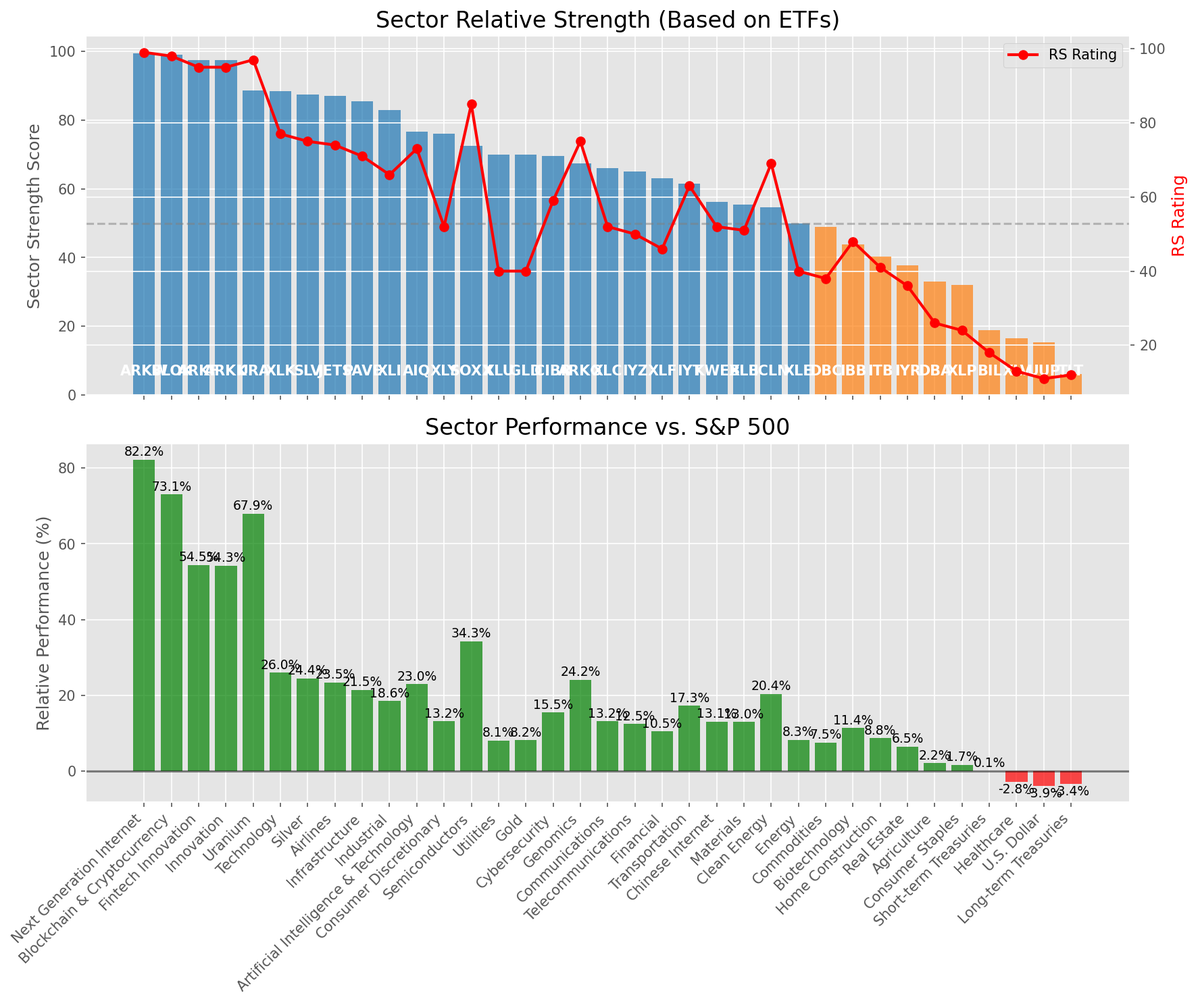
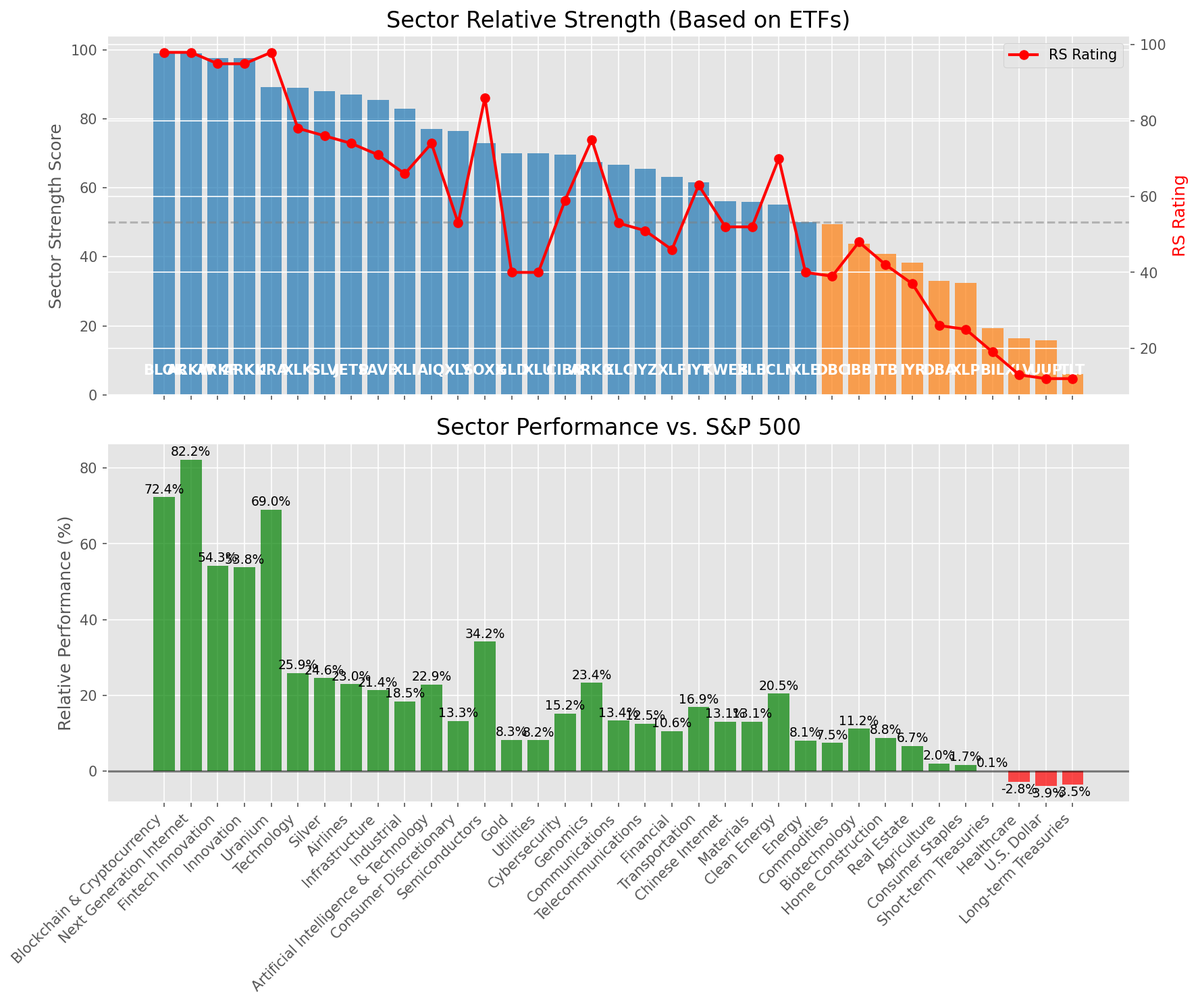
Add market report for 2025-07-11

diff --git a/oneil_relative_strength_report_2025-07-11.md b/oneil_relative_strength_report_2025-07-11.md
@@ -13,7 +13,7 @@
 | **Historical Mean** | 9.45 |
 | **Standard Deviation** | 0.52 |
 | **Z-Score (StdDev from Mean)** | 1.62 |
-| **Total Market Cap** | $307.43 trillion |
+| **Total Market Cap** | $307.35 trillion |
 | **GDP** | $29.96 trillion |
 
 ## **Market Insights**
@@ -49,41 +49,41 @@ Based on William O'Neil's Relative Strength Methodology
 
 | ETF | Strength | RS Rating | Performance | Above Key MAs | Trend | Sector |
 |-----|----------|-----------|-------------|--------------|-------|--------|
-| [ARKW](https://www.tradingview.com/chart/?symbol=ARKW) | 99.5 | 99.0 | 82.19% | 10d ✓, 50d ✓, 200d ✓ | ↗ | Next Generation Internet |
-| [BLOK](https://www.tradingview.com/chart/?symbol=BLOK) | 99.0 | 98.0 | 73.06% | 10d ✓, 50d ✓, 200d ✓ | ↗ | Blockchain & Cryptocurrency |
-| [ARKF](https://www.tradingview.com/chart/?symbol=ARKF) | 97.5 | 95.0 | 54.46% | 10d ✓, 50d ✓, 200d ✓ | ↗ | Fintech Innovation |
-| [ARKK](https://www.tradingview.com/chart/?symbol=ARKK) | 97.5 | 95.0 | 54.28% | 10d ✓, 50d ✓, 200d ✓ | ↗ | Innovation |
-| [URA](https://www.tradingview.com/chart/?symbol=URA) | 88.6 | 97.0 | 67.92% | 10d ✗, 50d ✓, 200d ✓ | ↗ | Uranium |
-| [XLK](https://www.tradingview.com/chart/?symbol=XLK) | 88.5 | 77.0 | 26.01% | 10d ✓, 50d ✓, 200d ✓ | ↗ | Technology |
-| [SLV](https://www.tradingview.com/chart/?symbol=SLV) | 87.5 | 75.0 | 24.45% | 10d ✓, 50d ✓, 200d ✓ | ↗ | Silver |
-| [JETS](https://www.tradingview.com/chart/?symbol=JETS) | 87.0 | 74.0 | 23.45% | 10d ✓, 50d ✓, 200d ✓ | ↗ | Airlines |
-| [PAVE](https://www.tradingview.com/chart/?symbol=PAVE) | 85.5 | 71.0 | 21.46% | 10d ✓, 50d ✓, 200d ✓ | ↗ | Infrastructure |
-| [XLI](https://www.tradingview.com/chart/?symbol=XLI) | 83.0 | 66.0 | 18.55% | 10d ✓, 50d ✓, 200d ✓ | ↗ | Industrial |
-| [AIQ](https://www.tradingview.com/chart/?symbol=AIQ) | 76.6 | 73.0 | 23.00% | 10d ✗, 50d ✓, 200d ✓ | ↗ | Artificial Intelligence & Technology |
-| [XLY](https://www.tradingview.com/chart/?symbol=XLY) | 76.0 | 52.0 | 13.16% | 10d ✓, 50d ✓, 200d ✓ | ↗ | Consumer Discretionary |
-| [SOXX](https://www.tradingview.com/chart/?symbol=SOXX) | 72.5 | 85.0 | 34.30% | 10d ✓, 50d ✓, 200d ✓ | ↘ | Semiconductors |
-| [XLU](https://www.tradingview.com/chart/?symbol=XLU) | 70.0 | 40.0 | 8.11% | 10d ✓, 50d ✓, 200d ✓ | ↗ | Utilities |
-| [GLD](https://www.tradingview.com/chart/?symbol=GLD) | 70.0 | 40.0 | 8.19% | 10d ✓, 50d ✓, 200d ✓ | ↗ | Gold |
-| [CIBR](https://www.tradingview.com/chart/?symbol=CIBR) | 69.6 | 59.0 | 15.53% | 10d ✗, 50d ✓, 200d ✓ | ↗ | Cybersecurity |
-| [ARKG](https://www.tradingview.com/chart/?symbol=ARKG) | 67.5 | 75.0 | 24.17% | 10d ✓, 50d ✓, 200d ✓ | ↘ | Genomics |
-| [XLC](https://www.tradingview.com/chart/?symbol=XLC) | 66.1 | 52.0 | 13.20% | 10d ✗, 50d ✓, 200d ✓ | ↗ | Communications |
-| [IYZ](https://www.tradingview.com/chart/?symbol=IYZ) | 65.1 | 50.0 | 12.46% | 10d ✗, 50d ✓, 200d ✓ | ↗ | Telecommunications |
-| [XLF](https://www.tradingview.com/chart/?symbol=XLF) | 63.1 | 46.0 | 10.52% | 10d ✗, 50d ✓, 200d ✓ | ↗ | Financial |
-| [IYT](https://www.tradingview.com/chart/?symbol=IYT) | 61.5 | 63.0 | 17.26% | 10d ✓, 50d ✓, 200d ✓ | ↘ | Transportation |
+| [BLOK](https://www.tradingview.com/chart/?symbol=BLOK) | 99.0 | 98.0 | 72.36% | 10d ✓, 50d ✓, 200d ✓ | ↗ | Blockchain & Cryptocurrency |
+| [ARKW](https://www.tradingview.com/chart/?symbol=ARKW) | 99.0 | 98.0 | 82.19% | 10d ✓, 50d ✓, 200d ✓ | ↗ | Next Generation Internet |
+| [ARKF](https://www.tradingview.com/chart/?symbol=ARKF) | 97.5 | 95.0 | 54.28% | 10d ✓, 50d ✓, 200d ✓ | ↗ | Fintech Innovation |
+| [ARKK](https://www.tradingview.com/chart/?symbol=ARKK) | 97.5 | 95.0 | 53.76% | 10d ✓, 50d ✓, 200d ✓ | ↗ | Innovation |
+| [URA](https://www.tradingview.com/chart/?symbol=URA) | 89.1 | 98.0 | 68.99% | 10d ✗, 50d ✓, 200d ✓ | ↗ | Uranium |
+| [XLK](https://www.tradingview.com/chart/?symbol=XLK) | 89.0 | 78.0 | 25.89% | 10d ✓, 50d ✓, 200d ✓ | ↗ | Technology |
+| [SLV](https://www.tradingview.com/chart/?symbol=SLV) | 88.0 | 76.0 | 24.63% | 10d ✓, 50d ✓, 200d ✓ | ↗ | Silver |
+| [JETS](https://www.tradingview.com/chart/?symbol=JETS) | 87.0 | 74.0 | 22.96% | 10d ✓, 50d ✓, 200d ✓ | ↗ | Airlines |
+| [PAVE](https://www.tradingview.com/chart/?symbol=PAVE) | 85.5 | 71.0 | 21.39% | 10d ✓, 50d ✓, 200d ✓ | ↗ | Infrastructure |
+| [XLI](https://www.tradingview.com/chart/?symbol=XLI) | 83.0 | 66.0 | 18.45% | 10d ✓, 50d ✓, 200d ✓ | ↗ | Industrial |
+| [AIQ](https://www.tradingview.com/chart/?symbol=AIQ) | 77.1 | 74.0 | 22.92% | 10d ✗, 50d ✓, 200d ✓ | ↗ | Artificial Intelligence & Technology |
+| [XLY](https://www.tradingview.com/chart/?symbol=XLY) | 76.5 | 53.0 | 13.31% | 10d ✓, 50d ✓, 200d ✓ | ↗ | Consumer Discretionary |
+| [SOXX](https://www.tradingview.com/chart/?symbol=SOXX) | 73.0 | 86.0 | 34.23% | 10d ✓, 50d ✓, 200d ✓ | ↘ | Semiconductors |
+| [GLD](https://www.tradingview.com/chart/?symbol=GLD) | 70.0 | 40.0 | 8.30% | 10d ✓, 50d ✓, 200d ✓ | ↗ | Gold |
+| [XLU](https://www.tradingview.com/chart/?symbol=XLU) | 70.0 | 40.0 | 8.19% | 10d ✓, 50d ✓, 200d ✓ | ↗ | Utilities |
+| [CIBR](https://www.tradingview.com/chart/?symbol=CIBR) | 69.6 | 59.0 | 15.19% | 10d ✗, 50d ✓, 200d ✓ | ↗ | Cybersecurity |
+| [ARKG](https://www.tradingview.com/chart/?symbol=ARKG) | 67.5 | 75.0 | 23.38% | 10d ✓, 50d ✓, 200d ✓ | ↘ | Genomics |
+| [XLC](https://www.tradingview.com/chart/?symbol=XLC) | 66.6 | 53.0 | 13.37% | 10d ✗, 50d ✓, 200d ✓ | ↗ | Communications |
+| [IYZ](https://www.tradingview.com/chart/?symbol=IYZ) | 65.6 | 51.0 | 12.53% | 10d ✗, 50d ✓, 200d ✓ | ↗ | Telecommunications |
+| [XLF](https://www.tradingview.com/chart/?symbol=XLF) | 63.1 | 46.0 | 10.61% | 10d ✗, 50d ✓, 200d ✓ | ↗ | Financial |
+| [IYT](https://www.tradingview.com/chart/?symbol=IYT) | 61.5 | 63.0 | 16.88% | 10d ✓, 50d ✓, 200d ✓ | ↘ | Transportation |
 | [KWEB](https://www.tradingview.com/chart/?symbol=KWEB) | 56.2 | 52.0 | 13.08% | 10d ✗, 50d ✗, 200d ✓ | ↗ | Chinese Internet |
-| [XLB](https://www.tradingview.com/chart/?symbol=XLB) | 55.5 | 51.0 | 13.03% | 10d ✓, 50d ✓, 200d ✓ | ↘ | Materials |
-| [ICLN](https://www.tradingview.com/chart/?symbol=ICLN) | 54.6 | 69.0 | 20.42% | 10d ✗, 50d ✓, 200d ✓ | ↘ | Clean Energy |
-| [XLE](https://www.tradingview.com/chart/?symbol=XLE) | 50.0 | 40.0 | 8.26% | 10d ✓, 50d ✓, 200d ✓ | ↘ | Energy |
-| [DBC](https://www.tradingview.com/chart/?symbol=DBC) | 49.0 | 38.0 | 7.53% | 10d ✓, 50d ✓, 200d ✓ | ↘ | Commodities |
-| [IBB](https://www.tradingview.com/chart/?symbol=IBB) | 43.8 | 48.0 | 11.37% | 10d ✓, 50d ✓, 200d ✗ | ↘ | Biotechnology |
-| [ITB](https://www.tradingview.com/chart/?symbol=ITB) | 40.3 | 41.0 | 8.76% | 10d ✓, 50d ✓, 200d ✗ | ↘ | Home Construction |
-| [IYR](https://www.tradingview.com/chart/?symbol=IYR) | 37.8 | 36.0 | 6.54% | 10d ✓, 50d ✓, 200d ✗ | ↘ | Real Estate |
-| [DBA](https://www.tradingview.com/chart/?symbol=DBA) | 33.0 | 26.0 | 2.16% | 10d ✗, 50d ✗, 200d ✗ | ↗ | Agriculture |
-| [XLP](https://www.tradingview.com/chart/?symbol=XLP) | 32.0 | 24.0 | 1.67% | 10d ✗, 50d ✗, 200d ✗ | ↗ | Consumer Staples |
-| [BIL](https://www.tradingview.com/chart/?symbol=BIL) | 18.9 | 18.0 | 0.06% | 10d ✓, 50d ✗, 200d ✗ | ↘ | Short-term Treasuries |
-| [XLV](https://www.tradingview.com/chart/?symbol=XLV) | 16.4 | 13.0 | -2.83% | 10d ✗, 50d ✓, 200d ✗ | ↘ | Healthcare |
-| [UUP](https://www.tradingview.com/chart/?symbol=UUP) | 15.4 | 11.0 | -3.88% | 10d ✓, 50d ✗, 200d ✗ | ↘ | U.S. Dollar |
-| [TLT](https://www.tradingview.com/chart/?symbol=TLT) | 6.0 | 12.0 | -3.36% | 10d ✗, 50d ✗, 200d ✗ | ↘ | Long-term Treasuries |
+| [XLB](https://www.tradingview.com/chart/?symbol=XLB) | 56.0 | 52.0 | 13.12% | 10d ✓, 50d ✓, 200d ✓ | ↘ | Materials |
+| [ICLN](https://www.tradingview.com/chart/?symbol=ICLN) | 55.1 | 70.0 | 20.47% | 10d ✗, 50d ✓, 200d ✓ | ↘ | Clean Energy |
+| [XLE](https://www.tradingview.com/chart/?symbol=XLE) | 50.0 | 40.0 | 8.14% | 10d ✓, 50d ✓, 200d ✓ | ↘ | Energy |
+| [DBC](https://www.tradingview.com/chart/?symbol=DBC) | 49.5 | 39.0 | 7.47% | 10d ✓, 50d ✓, 200d ✓ | ↘ | Commodities |
+| [IBB](https://www.tradingview.com/chart/?symbol=IBB) | 43.8 | 48.0 | 11.19% | 10d ✓, 50d ✓, 200d ✗ | ↘ | Biotechnology |
+| [ITB](https://www.tradingview.com/chart/?symbol=ITB) | 40.8 | 42.0 | 8.82% | 10d ✓, 50d ✓, 200d ✗ | ↘ | Home Construction |
+| [IYR](https://www.tradingview.com/chart/?symbol=IYR) | 38.3 | 37.0 | 6.71% | 10d ✓, 50d ✓, 200d ✗ | ↘ | Real Estate |
+| [DBA](https://www.tradingview.com/chart/?symbol=DBA) | 33.0 | 26.0 | 2.02% | 10d ✗, 50d ✗, 200d ✗ | ↗ | Agriculture |
+| [XLP](https://www.tradingview.com/chart/?symbol=XLP) | 32.5 | 25.0 | 1.72% | 10d ✗, 50d ✗, 200d ✗ | ↗ | Consumer Staples |
+| [BIL](https://www.tradingview.com/chart/?symbol=BIL) | 19.4 | 19.0 | 0.05% | 10d ✓, 50d ✗, 200d ✗ | ↘ | Short-term Treasuries |
+| [XLV](https://www.tradingview.com/chart/?symbol=XLV) | 16.4 | 13.0 | -2.81% | 10d ✗, 50d ✓, 200d ✗ | ↘ | Healthcare |
+| [UUP](https://www.tradingview.com/chart/?symbol=UUP) | 15.9 | 12.0 | -3.87% | 10d ✓, 50d ✗, 200d ✗ | ↘ | U.S. Dollar |
+| [TLT](https://www.tradingview.com/chart/?symbol=TLT) | 6.0 | 12.0 | -3.47% | 10d ✗, 50d ✗, 200d ✗ | ↘ | Long-term Treasuries |
 
 ### **Sector ETF Performance Interpretation**
 
@@ -98,173 +98,170 @@ This table shows the relative strength metrics for different market sectors base
 
 ### **Current Sector Leadership**
 
-The current market leadership is coming from the following sectors: **Next Generation Internet, Blockchain & Cryptocurrency, Fintech Innovation**.
+The current market leadership is coming from the following sectors: **Blockchain & Cryptocurrency, Next Generation Internet, Fintech Innovation**.
 
-The **Next Generation Internet** sector (represented by **ARKW**) is showing particularly strong relative strength with an RS rating of 99.0 and performance of 82.19% vs. the S&P 500. This sector is trading above its 10-day, 50-day, 200-day moving average(s). Investors should consider focusing on high RS stocks within these leading sectors for potential outperformance.
+The **Blockchain & Cryptocurrency** sector (represented by **BLOK**) is showing particularly strong relative strength with an RS rating of 98.0 and performance of 72.36% vs. the S&P 500. This sector is trading above its 10-day, 50-day, 200-day moving average(s). Investors should consider focusing on high RS stocks within these leading sectors for potential outperformance.
 
 ---
 
 ## **Buy Recommendations**
 
-The following 45 stocks show exceptional relative strength:
+The following 44 stocks show exceptional relative strength:
 
 | RS Rating | Buy Score | Current Price | Chart | Name | Ticker |
 |-----------|-----------|---------------|-------|------|--------|
+| 100 | 100 | $202.09 | [Chart](https://www.tradingview.com/chart/?symbol=LEU) | Centrus Energy Corp. | LEU |
+| 100 | 100 | $100.17 | [Chart](https://www.tradingview.com/chart/?symbol=HOOD) | Robinhood Markets, Inc. Class A Common Stock | HOOD |
 | 100 | 100 | $149.22 | [Chart](https://www.tradingview.com/chart/?symbol=LMB) | Limbach Holdings, Inc Common Stock | LMB |
-| 100 | 100 | $200.69 | [Chart](https://www.tradingview.com/chart/?symbol=LEU) | Centrus Energy Corp. | LEU |
-| 100 | 100 | $100.86 | [Chart](https://www.tradingview.com/chart/?symbol=HOOD) | Robinhood Markets, Inc. Class A Common Stock | HOOD |
-| 99 | 100 | $149.31 | [Chart](https://www.tradingview.com/chart/?symbol=FUTU) | Futu Holdings Limited American Depositary Shares | FUTU |
-| 99 | 100 | $43.92 | [Chart](https://www.tradingview.com/chart/?symbol=FARO) | Faro Technologies Inc | FARO |
-| 99 | 100 | $106.78 | [Chart](https://www.tradingview.com/chart/?symbol=RBLX) | Roblox Corporation | RBLX |
-| 99 | 100 | $45.42 | [Chart](https://www.tradingview.com/chart/?symbol=MP) | MP Materials Corp. | MP |
-| 98 | 100 | $104.86 | [Chart](https://www.tradingview.com/chart/?symbol=VRNA) | Verona Pharma plc | VRNA |
-| 97 | 100 | $51.95 | [Chart](https://www.tradingview.com/chart/?symbol=KTOS) | Kratos Defense & Security Solutions, Inc. | KTOS |
-| 97 | 100 | $540.15 | [Chart](https://www.tradingview.com/chart/?symbol=GEV) | GE Vernova Inc. | GEV |
-| 96 | 100 | $22.21 | [Chart](https://www.tradingview.com/chart/?symbol=MAG) | MAG Silver Corp. | MAG |
-| 96 | 100 | $36.00 | [Chart](https://www.tradingview.com/chart/?symbol=ATRO) | Astronics Corp | ATRO |
-| 96 | 100 | $348.10 | [Chart](https://www.tradingview.com/chart/?symbol=CVNA) | Carvana Co. | CVNA |
-| 95 | 100 | $143.60 | [Chart](https://www.tradingview.com/chart/?symbol=PLTR) | Palantir Technologies Inc. Class A Common Stock | PLTR |
-| 95 | 100 | $51.48 | [Chart](https://www.tradingview.com/chart/?symbol=ARKF) | ARK Fintech Innovation ETF | ARKF |
-| 95 | 100 | $35.25 | [Chart](https://www.tradingview.com/chart/?symbol=ATAT) | Atour Lifestyle Holdings Limited American Depositary Shares | ATAT |
-| 94 | 100 | $212.82 | [Chart](https://www.tradingview.com/chart/?symbol=AGX) | Argan, Inc | AGX |
-| 93 | 100 | $34.59 | [Chart](https://www.tradingview.com/chart/?symbol=APG) | APi Group Corporation | APG |
-| 92 | 100 | $29.38 | [Chart](https://www.tradingview.com/chart/?symbol=NTGR) | NETGEAR, Inc. | NTGR |
-| 92 | 100 | $87.53 | [Chart](https://www.tradingview.com/chart/?symbol=RYTM) | Rhythm Pharmaceuticals, Inc. Common Stock | RYTM |
-| 92 | 100 | $97.98 | [Chart](https://www.tradingview.com/chart/?symbol=TPR) | Tapestry, Inc. Common Stock | TPR |
-| 91 | 100 | $66.86 | [Chart](https://www.tradingview.com/chart/?symbol=IBIT) | iShares Bitcoin Trust ETF | IBIT |
-| 91 | 100 | $52.14 | [Chart](https://www.tradingview.com/chart/?symbol=BTC) | Grayscale Bitcoin Mini Trust ETF | BTC |
+| 99 | 100 | $45.09 | [Chart](https://www.tradingview.com/chart/?symbol=MP) | MP Materials Corp. | MP |
+| 99 | 100 | $148.56 | [Chart](https://www.tradingview.com/chart/?symbol=FUTU) | Futu Holdings Limited American Depositary Shares | FUTU |
+| 99 | 100 | $106.68 | [Chart](https://www.tradingview.com/chart/?symbol=RBLX) | Roblox Corporation | RBLX |
+| 98 | 100 | $104.84 | [Chart](https://www.tradingview.com/chart/?symbol=VRNA) | Verona Pharma plc | VRNA |
+| 97 | 100 | $538.94 | [Chart](https://www.tradingview.com/chart/?symbol=GEV) | GE Vernova Inc. | GEV |
+| 97 | 100 | $51.58 | [Chart](https://www.tradingview.com/chart/?symbol=KTOS) | Kratos Defense & Security Solutions, Inc. | KTOS |
+| 96 | 100 | $22.27 | [Chart](https://www.tradingview.com/chart/?symbol=MAG) | MAG Silver Corp. | MAG |
+| 96 | 100 | $143.50 | [Chart](https://www.tradingview.com/chart/?symbol=PLTR) | Palantir Technologies Inc. Class A Common Stock | PLTR |
+| 96 | 100 | $345.45 | [Chart](https://www.tradingview.com/chart/?symbol=CVNA) | Carvana Co. | CVNA |
+| 96 | 100 | $36.05 | [Chart](https://www.tradingview.com/chart/?symbol=ATRO) | Astronics Corp | ATRO |
+| 95 | 100 | $35.26 | [Chart](https://www.tradingview.com/chart/?symbol=ATAT) | Atour Lifestyle Holdings Limited American Depositary Shares | ATAT |
+| 95 | 100 | $51.42 | [Chart](https://www.tradingview.com/chart/?symbol=ARKF) | ARK Fintech Innovation ETF | ARKF |
+| 94 | 100 | $212.03 | [Chart](https://www.tradingview.com/chart/?symbol=AGX) | Argan, Inc | AGX |
+| 93 | 100 | $34.54 | [Chart](https://www.tradingview.com/chart/?symbol=APG) | APi Group Corporation | APG |
+| 93 | 100 | $98.38 | [Chart](https://www.tradingview.com/chart/?symbol=TPR) | Tapestry, Inc. Common Stock | TPR |
+| 93 | 100 | $87.48 | [Chart](https://www.tradingview.com/chart/?symbol=RYTM) | Rhythm Pharmaceuticals, Inc. Common Stock | RYTM |
+| 93 | 100 | $29.38 | [Chart](https://www.tradingview.com/chart/?symbol=NTGR) | NETGEAR, Inc. | NTGR |
+| 92 | 100 | $66.91 | [Chart](https://www.tradingview.com/chart/?symbol=IBIT) | iShares Bitcoin Trust ETF | IBIT |
+| 92 | 100 | $52.16 | [Chart](https://www.tradingview.com/chart/?symbol=BTC) | Grayscale Bitcoin Mini Trust ETF | BTC |
+| 91 | 100 | $46.48 | [Chart](https://www.tradingview.com/chart/?symbol=BBIO) | BridgeBio Pharma, Inc. Common Stock | BBIO |
 | 90 | 100 | $258.16 | [Chart](https://www.tradingview.com/chart/?symbol=WTS) | Watts Water Technologies, Inc. Class A | WTS |
-| 90 | 100 | $46.30 | [Chart](https://www.tradingview.com/chart/?symbol=BBIO) | BridgeBio Pharma, Inc. Common Stock | BBIO |
-| 89 | 100 | $47.52 | [Chart](https://www.tradingview.com/chart/?symbol=DRS) | Leonardo DRS, Inc. Common Stock | DRS |
-| 89 | 100 | $59.22 | [Chart](https://www.tradingview.com/chart/?symbol=IBKR) | Interactive Brokers Group, Inc. Class A Common Stock | IBKR |
-| 90 | 99 | $34.68 | [Chart](https://www.tradingview.com/chart/?symbol=NNE) | Nano Nuclear Energy Inc. Common Stock | NNE |
+| 89 | 100 | $59.28 | [Chart](https://www.tradingview.com/chart/?symbol=IBKR) | Interactive Brokers Group, Inc. Class A Common Stock | IBKR |
+| 89 | 100 | $47.42 | [Chart](https://www.tradingview.com/chart/?symbol=DRS) | Leonardo DRS, Inc. Common Stock | DRS |
+| 88 | 100 | $27.75 | [Chart](https://www.tradingview.com/chart/?symbol=OR) | OR Royalties Inc. | OR |
+| 90 | 99 | $34.77 | [Chart](https://www.tradingview.com/chart/?symbol=NNE) | Nano Nuclear Energy Inc. Common Stock | NNE |
 | 88 | 99 | $5718.51 | [Chart](https://www.tradingview.com/chart/?symbol=BKNG) | Booking Holdings Inc. Common Stock | BKNG |
-| 86 | 99 | $29.65 | [Chart](https://www.tradingview.com/chart/?symbol=DB) | Deutsche Bank Aktiengesellschaft | DB |
-| 87 | 98 | $256.06 | [Chart](https://www.tradingview.com/chart/?symbol=GE) | GE Aerospace | GE |
-| 86 | 98 | $27.69 | [Chart](https://www.tradingview.com/chart/?symbol=OR) | OR Royalties Inc. | OR |
-| 88 | 97 | $51.42 | [Chart](https://www.tradingview.com/chart/?symbol=INOD) | Innodata Inc. | INOD |
-| 85 | 97 | $64.15 | [Chart](https://www.tradingview.com/chart/?symbol=CAKE) | Cheesecake Factory (The) | CAKE |
-| 84 | 97 | $18.46 | [Chart](https://www.tradingview.com/chart/?symbol=BCS) | Barclays PLC | BCS |
-| 87 | 96 | $50.66 | [Chart](https://www.tradingview.com/chart/?symbol=SIL) | Global X Silver Miners ETF (NEW) | SIL |
-| 85 | 95 | $104.28 | [Chart](https://www.tradingview.com/chart/?symbol=SANM) | Sanmina  Corp | SANM |
-| 83 | 95 | $48.53 | [Chart](https://www.tradingview.com/chart/?symbol=EWI) | iShares MSCI Italy ETF | EWI |
-| 80 | 94 | $28.77 | [Chart](https://www.tradingview.com/chart/?symbol=SRAD) | Sportradar Group AG Class A Ordinary Shares | SRAD |
-| 82 | 93 | $71.73 | [Chart](https://www.tradingview.com/chart/?symbol=ULS) | UL Solutions Inc. | ULS |
-| 80 | 93 | $45.32 | [Chart](https://www.tradingview.com/chart/?symbol=EXEL) | Exelixis Inc | EXEL |
-| 81 | 91 | $108.36 | [Chart](https://www.tradingview.com/chart/?symbol=PSMT) | Pricesmart Inc | PSMT |
-| 81 | 91 | $46.77 | [Chart](https://www.tradingview.com/chart/?symbol=AU) | AngloGold Ashanti plc | AU |
-| 81 | 91 | $46.32 | [Chart](https://www.tradingview.com/chart/?symbol=FHI) | Federated Hermes, Inc. | FHI |
-| 80 | 90 | $60.18 | [Chart](https://www.tradingview.com/chart/?symbol=EPR) | EPR Properties | EPR |
+| 88 | 99 | $255.60 | [Chart](https://www.tradingview.com/chart/?symbol=GE) | GE Aerospace | GE |
+| 86 | 99 | $29.66 | [Chart](https://www.tradingview.com/chart/?symbol=DB) | Deutsche Bank Aktiengesellschaft | DB |
+| 89 | 98 | $50.86 | [Chart](https://www.tradingview.com/chart/?symbol=SIL) | Global X Silver Miners ETF (NEW) | SIL |
+| 86 | 98 | $64.22 | [Chart](https://www.tradingview.com/chart/?symbol=CAKE) | Cheesecake Factory (The) | CAKE |
+| 85 | 98 | $18.48 | [Chart](https://www.tradingview.com/chart/?symbol=BCS) | Barclays PLC | BCS |
+| 88 | 97 | $50.55 | [Chart](https://www.tradingview.com/chart/?symbol=INOD) | Innodata Inc. | INOD |
+| 86 | 96 | $103.81 | [Chart](https://www.tradingview.com/chart/?symbol=SANM) | Sanmina  Corp | SANM |
+| 84 | 96 | $48.53 | [Chart](https://www.tradingview.com/chart/?symbol=EWI) | iShares MSCI Italy ETF | EWI |
+| 81 | 95 | $28.77 | [Chart](https://www.tradingview.com/chart/?symbol=SRAD) | Sportradar Group AG Class A Ordinary Shares | SRAD |
+| 83 | 94 | $71.61 | [Chart](https://www.tradingview.com/chart/?symbol=ULS) | UL Solutions Inc. | ULS |
+| 81 | 94 | $45.38 | [Chart](https://www.tradingview.com/chart/?symbol=EXEL) | Exelixis Inc | EXEL |
+| 83 | 93 | $109.06 | [Chart](https://www.tradingview.com/chart/?symbol=PSMT) | Pricesmart Inc | PSMT |
+| 82 | 92 | $47.03 | [Chart](https://www.tradingview.com/chart/?symbol=AU) | AngloGold Ashanti plc | AU |
+| 81 | 91 | $60.25 | [Chart](https://www.tradingview.com/chart/?symbol=EPR) | EPR Properties | EPR |
+| 80 | 89 | $175.60 | [Chart](https://www.tradingview.com/chart/?symbol=ASND) | Ascendis Pharma A/S American Depositary Shares | ASND |
 
 ---
 
 
 ## **Sell Recommendations**
 
-The following 100 stocks show deteriorating relative strength:
+The following 98 stocks show deteriorating relative strength:
 
 | RS Rating | Sell Score | Current Price | Chart | Name | Ticker |
 |-----------|------------|---------------|-------|------|--------|
-| 1 | 100 | $25.66 | [Chart](https://www.tradingview.com/chart/?symbol=TECS) | Direxion Daily Technology Bear 3x Shares | TECS |
-| 1 | 100 | $12.64 | [Chart](https://www.tradingview.com/chart/?symbol=IART) | Integra LifeSciences Holdings | IART |
-| 1 | 100 | $220.16 | [Chart](https://www.tradingview.com/chart/?symbol=MOH) | Molina Healthcare, Inc. | MOH |
-| 2 | 100 | $25.05 | [Chart](https://www.tradingview.com/chart/?symbol=QID) | ProShares UltraShort QQQ | QID |
+| 1 | 100 | $25.74 | [Chart](https://www.tradingview.com/chart/?symbol=TECS) | Direxion Daily Technology Bear 3x Shares | TECS |
+| 1 | 100 | $12.65 | [Chart](https://www.tradingview.com/chart/?symbol=IART) | Integra LifeSciences Holdings | IART |
+| 1 | 100 | $220.94 | [Chart](https://www.tradingview.com/chart/?symbol=MOH) | Molina Healthcare, Inc. | MOH |
+| 2 | 100 | $25.06 | [Chart](https://www.tradingview.com/chart/?symbol=QID) | ProShares UltraShort QQQ | QID |
+| 2 | 100 | $16.36 | [Chart](https://www.tradingview.com/chart/?symbol=SDS) | ProShares UltraShort S&P500 | SDS |
 | 2 | 100 | $17.95 | [Chart](https://www.tradingview.com/chart/?symbol=BITI) | ProShares Short Bitcoin ETF | BITI |
-| 2 | 100 | $16.37 | [Chart](https://www.tradingview.com/chart/?symbol=SDS) | ProShares UltraShort S&P500 | SDS |
-| 2 | 100 | $40.80 | [Chart](https://www.tradingview.com/chart/?symbol=SDOW) | ProShares UltraPro Short Dow 30 | SDOW |
-| 2 | 100 | $34.42 | [Chart](https://www.tradingview.com/chart/?symbol=SARK) | Investment Managers Series Trust II Tradr 1X Short Innovation Daily ETF | SARK |
-| 2 | 100 | $20.79 | [Chart](https://www.tradingview.com/chart/?symbol=ERY) | Direxion Daily Energy Bear 2X Shares | ERY |
-| 2 | 100 | $23.95 | [Chart](https://www.tradingview.com/chart/?symbol=CRTO) | Criteo S.A. | CRTO |
 | 2 | 100 | $10.25 | [Chart](https://www.tradingview.com/chart/?symbol=SNDX) | Syndax Pharmaceuticals, Inc. | SNDX |
-| 3 | 100 | $229.89 | [Chart](https://www.tradingview.com/chart/?symbol=HUM) | Humana Inc. | HUM |
-| 3 | 100 | $48.83 | [Chart](https://www.tradingview.com/chart/?symbol=ASGN) | ASGN Incorporated | ASGN |
-| 3 | 100 | $17.16 | [Chart](https://www.tradingview.com/chart/?symbol=HP) | Helmerich & Payne, Inc. | HP |
-| 3 | 100 | $81.93 | [Chart](https://www.tradingview.com/chart/?symbol=LNTH) | Lantheus Holdings, Inc | LNTH |
-| 3 | 100 | $36.62 | [Chart](https://www.tradingview.com/chart/?symbol=IBTA) | Ibotta, Inc. | IBTA |
-| 3 | 100 | $42.82 | [Chart](https://www.tradingview.com/chart/?symbol=LINE) | Lineage, Inc. Common Stock | LINE |
-| 4 | 100 | $23.98 | [Chart](https://www.tradingview.com/chart/?symbol=DXD) | ProShares UltraShort Dow 30 | DXD |
+| 2 | 100 | $23.95 | [Chart](https://www.tradingview.com/chart/?symbol=CRTO) | Criteo S.A. | CRTO |
+| 2 | 100 | $20.79 | [Chart](https://www.tradingview.com/chart/?symbol=ERY) | Direxion Daily Energy Bear 2X Shares | ERY |
+| 2 | 100 | $40.76 | [Chart](https://www.tradingview.com/chart/?symbol=SDOW) | ProShares UltraPro Short Dow 30 | SDOW |
+| 2 | 100 | $34.57 | [Chart](https://www.tradingview.com/chart/?symbol=SARK) | Investment Managers Series Trust II Tradr 1X Short Innovation Daily ETF | SARK |
+| 3 | 100 | $17.17 | [Chart](https://www.tradingview.com/chart/?symbol=HP) | Helmerich & Payne, Inc. | HP |
+| 3 | 100 | $10.67 | [Chart](https://www.tradingview.com/chart/?symbol=SONO) | Sonos, Inc. Common Stock | SONO |
+| 3 | 100 | $81.56 | [Chart](https://www.tradingview.com/chart/?symbol=LNTH) | Lantheus Holdings, Inc | LNTH |
+| 3 | 100 | $230.92 | [Chart](https://www.tradingview.com/chart/?symbol=HUM) | Humana Inc. | HUM |
+| 3 | 100 | $49.00 | [Chart](https://www.tradingview.com/chart/?symbol=ASGN) | ASGN Incorporated | ASGN |
+| 3 | 100 | $42.88 | [Chart](https://www.tradingview.com/chart/?symbol=LINE) | Lineage, Inc. Common Stock | LINE |
+| 3 | 100 | $36.93 | [Chart](https://www.tradingview.com/chart/?symbol=IBTA) | Ibotta, Inc. | IBTA |
 | 4 | 100 | $33.51 | [Chart](https://www.tradingview.com/chart/?symbol=PSQ) | ProShares Short QQQ | PSQ |
+| 4 | 100 | $16.55 | [Chart](https://www.tradingview.com/chart/?symbol=COLD) | Americold Realty Trust, Inc. | COLD |
+| 4 | 100 | $23.96 | [Chart](https://www.tradingview.com/chart/?symbol=DXD) | ProShares UltraShort Dow 30 | DXD |
+| 4 | 100 | $12.46 | [Chart](https://www.tradingview.com/chart/?symbol=CCRN) | Cross Country Healthcare Inc | CCRN |
+| 4 | 100 | $10.29 | [Chart](https://www.tradingview.com/chart/?symbol=LBTYK) | Liberty Global Ltd. Class C Common Shares | LBTYK |
 | 4 | 100 | $60.30 | [Chart](https://www.tradingview.com/chart/?symbol=STC) | Stewart Information Services Corporation | STC |
-| 4 | 100 | $16.52 | [Chart](https://www.tradingview.com/chart/?symbol=COLD) | Americold Realty Trust, Inc. | COLD |
-| 4 | 100 | $10.24 | [Chart](https://www.tradingview.com/chart/?symbol=LBTYK) | Liberty Global Ltd. Class C Common Shares | LBTYK |
-| 5 | 100 | $101.91 | [Chart](https://www.tradingview.com/chart/?symbol=DECK) | Deckers Outdoor Corp | DECK |
+| 5 | 100 | $39.35 | [Chart](https://www.tradingview.com/chart/?symbol=SH) | ProShares Short S&P500 | SH |
 | 5 | 100 | $10.82 | [Chart](https://www.tradingview.com/chart/?symbol=SD) | SandRidge Energy, Inc. | SD |
-| 5 | 100 | $133.07 | [Chart](https://www.tradingview.com/chart/?symbol=INSP) | Inspire Medical Systems, Inc. | INSP |
-| 5 | 100 | $39.37 | [Chart](https://www.tradingview.com/chart/?symbol=SH) | ProShares Short S&P500 | SH |
-| 5 | 100 | $12.46 | [Chart](https://www.tradingview.com/chart/?symbol=CCRN) | Cross Country Healthcare Inc | CCRN |
-| 6 | 100 | $15.69 | [Chart](https://www.tradingview.com/chart/?symbol=TNDM) | Tandem Diabetes Care, Inc. | TNDM |
-| 6 | 100 | $61.50 | [Chart](https://www.tradingview.com/chart/?symbol=COLM) | Columbia Sportswear Co | COLM |
-| 6 | 100 | $22.26 | [Chart](https://www.tradingview.com/chart/?symbol=GPK) | Graphic Packaging Holding Company | GPK |
-| 6 | 100 | $69.17 | [Chart](https://www.tradingview.com/chart/?symbol=TNET) | TRINET GROUP, INC. | TNET |
-| 7 | 100 | $19.25 | [Chart](https://www.tradingview.com/chart/?symbol=SPT) | Sprout Social, Inc Class A Common Stock | SPT |
-| 7 | 100 | $25.37 | [Chart](https://www.tradingview.com/chart/?symbol=DOG) | ProShares Short Dow30 | DOG |
-| 7 | 100 | $50.17 | [Chart](https://www.tradingview.com/chart/?symbol=LW) | Lamb Weston Holdings, Inc. | LW |
-| 8 | 100 | $46.36 | [Chart](https://www.tradingview.com/chart/?symbol=KBR) | KBR, Inc. | KBR |
-| 8 | 100 | $38.58 | [Chart](https://www.tradingview.com/chart/?symbol=LKQ) | LKQ Corporation | LKQ |
+| 5 | 100 | $132.44 | [Chart](https://www.tradingview.com/chart/?symbol=INSP) | Inspire Medical Systems, Inc. | INSP |
+| 5 | 100 | $102.00 | [Chart](https://www.tradingview.com/chart/?symbol=DECK) | Deckers Outdoor Corp | DECK |
+| 6 | 100 | $61.40 | [Chart](https://www.tradingview.com/chart/?symbol=COLM) | Columbia Sportswear Co | COLM |
+| 6 | 100 | $19.19 | [Chart](https://www.tradingview.com/chart/?symbol=SPT) | Sprout Social, Inc Class A Common Stock | SPT |
+| 6 | 100 | $68.72 | [Chart](https://www.tradingview.com/chart/?symbol=TNET) | TRINET GROUP, INC. | TNET |
+| 6 | 100 | $15.84 | [Chart](https://www.tradingview.com/chart/?symbol=TNDM) | Tandem Diabetes Care, Inc. | TNDM |
+| 7 | 100 | $50.53 | [Chart](https://www.tradingview.com/chart/?symbol=LW) | Lamb Weston Holdings, Inc. | LW |
+| 7 | 100 | $51.73 | [Chart](https://www.tradingview.com/chart/?symbol=CNMD) | CONMED Corporation | CNMD |
+| 8 | 100 | $25.36 | [Chart](https://www.tradingview.com/chart/?symbol=DOG) | ProShares Short Dow30 | DOG |
+| 8 | 100 | $46.41 | [Chart](https://www.tradingview.com/chart/?symbol=KBR) | KBR, Inc. | KBR |
 | 8 | 100 | $10.23 | [Chart](https://www.tradingview.com/chart/?symbol=LBTYA) | Liberty Global Ltd. Class A Common Shares | LBTYA |
-| 9 | 100 | $17.64 | [Chart](https://www.tradingview.com/chart/?symbol=S) | SentinelOne, Inc. | S |
-| 9 | 100 | $63.70 | [Chart](https://www.tradingview.com/chart/?symbol=ZROZ) | PIMCO 25+ Year Zero Coupon U.S. Treasury Index Exchange-Traded Fund | ZROZ |
-| 9 | 100 | $13.30 | [Chart](https://www.tradingview.com/chart/?symbol=BSM) | Black Stone Minerals, L.P. | BSM |
-| 11 | 100 | $10.35 | [Chart](https://www.tradingview.com/chart/?symbol=NMZ) | Nuveen Municipal High Income Opportunity Fund | NMZ |
-| 13 | 100 | $41.10 | [Chart](https://www.tradingview.com/chart/?symbol=POR) | Portland General Electric Company | POR |
-| 15 | 100 | $27.24 | [Chart](https://www.tradingview.com/chart/?symbol=GTY) | Getty Realty Corp. | GTY |
-| 17 | 100 | $29.15 | [Chart](https://www.tradingview.com/chart/?symbol=SPTS) | SPDR Portfolio Short Term Treasury ETF | SPTS |
-| 11 | 99 | $130.00 | [Chart](https://www.tradingview.com/chart/?symbol=KMB) | Kimberly-Clark Corp. | KMB |
-| 17 | 99 | $182.79 | [Chart](https://www.tradingview.com/chart/?symbol=UHS) | Universal Health Services, Inc. Class B | UHS |
-| 7 | 98 | $17.43 | [Chart](https://www.tradingview.com/chart/?symbol=NOMD) | Nomad Foods Limited | NOMD |
-| 12 | 98 | $85.88 | [Chart](https://www.tradingview.com/chart/?symbol=TLT) | iShares 20+ Year Treasury Bond ETF | TLT |
-| 11 | 97 | $103.19 | [Chart](https://www.tradingview.com/chart/?symbol=DEO) | Diageo plc | DEO |
-| 9 | 96 | $12.57 | [Chart](https://www.tradingview.com/chart/?symbol=PMT) | PennyMac Mortgage Investment Trust | PMT |
-| 9 | 96 | $25.26 | [Chart](https://www.tradingview.com/chart/?symbol=DRV) | Direxion Daily Real Estate Bear 3X Shares | DRV |
-| 10 | 96 | $24.95 | [Chart](https://www.tradingview.com/chart/?symbol=TBBB) | BBB Foods Inc. | TBBB |
-| 13 | 96 | $338.34 | [Chart](https://www.tradingview.com/chart/?symbol=EG) | Everest Group, Ltd. | EG |
-| 18 | 96 | $32.30 | [Chart](https://www.tradingview.com/chart/?symbol=INVH) | Invitation Homes Inc. Common Stock | INVH |
-| 10 | 95 | $48.52 | [Chart](https://www.tradingview.com/chart/?symbol=SNY) | Sanofi American Depositary Shares (Each representing one-half of one ordinary share) | SNY |
-| 11 | 95 | $30.49 | [Chart](https://www.tradingview.com/chart/?symbol=AXTA) | Axalta Coating Systems Ltd. | AXTA |
-| 14 | 94 | $21.65 | [Chart](https://www.tradingview.com/chart/?symbol=TUA) | Simplify Short Term Treasury Futures Strategy ETF | TUA |
-| 14 | 93 | $106.12 | [Chart](https://www.tradingview.com/chart/?symbol=BAH) | Booz Allen Hamilton Holding Corporation | BAH |
-| 14 | 93 | $40.33 | [Chart](https://www.tradingview.com/chart/?symbol=UDR) | UDR, Inc. | UDR |
-| 9 | 92 | $19.79 | [Chart](https://www.tradingview.com/chart/?symbol=CON) | Concentra Group Holdings Parent, Inc. | CON |
-| 11 | 92 | $33.37 | [Chart](https://www.tradingview.com/chart/?symbol=KDP) | Keurig Dr Pepper Inc. | KDP |
-| 16 | 91 | $89.68 | [Chart](https://www.tradingview.com/chart/?symbol=CL) | Colgate-Palmolive Company | CL |
-| 16 | 91 | $66.56 | [Chart](https://www.tradingview.com/chart/?symbol=EQR) | Equity Residential | EQR |
-| 20 | 91 | $16.80 | [Chart](https://www.tradingview.com/chart/?symbol=MLN) | VanEck Long Muni ETF | MLN |
-| 13 | 90 | $18.45 | [Chart](https://www.tradingview.com/chart/?symbol=AKR) | Acadia Realty Trust | AKR |
-| 20 | 89 | $14.77 | [Chart](https://www.tradingview.com/chart/?symbol=VRE) | Veris Residential, Inc. | VRE |
-| 22 | 89 | $465.34 | [Chart](https://www.tradingview.com/chart/?symbol=LMT) | Lockheed Martin Corp. | LMT |
+| 8 | 100 | $38.53 | [Chart](https://www.tradingview.com/chart/?symbol=LKQ) | LKQ Corporation | LKQ |
+| 9 | 100 | $63.56 | [Chart](https://www.tradingview.com/chart/?symbol=ZROZ) | PIMCO 25+ Year Zero Coupon U.S. Treasury Index Exchange-Traded Fund | ZROZ |
+| 9 | 100 | $17.56 | [Chart](https://www.tradingview.com/chart/?symbol=S) | SentinelOne, Inc. | S |
+| 9 | 100 | $13.35 | [Chart](https://www.tradingview.com/chart/?symbol=BSM) | Black Stone Minerals, L.P. | BSM |
+| 10 | 100 | $14.68 | [Chart](https://www.tradingview.com/chart/?symbol=VRE) | Veris Residential, Inc. | VRE |
+| 12 | 100 | $10.37 | [Chart](https://www.tradingview.com/chart/?symbol=NMZ) | Nuveen Municipal High Income Opportunity Fund | NMZ |
+| 13 | 100 | $41.15 | [Chart](https://www.tradingview.com/chart/?symbol=POR) | Portland General Electric Company | POR |
+| 13 | 100 | $27.42 | [Chart](https://www.tradingview.com/chart/?symbol=GTY) | Getty Realty Corp. | GTY |
+| 11 | 99 | $129.57 | [Chart](https://www.tradingview.com/chart/?symbol=KMB) | Kimberly-Clark Corp. | KMB |
+| 18 | 99 | $29.15 | [Chart](https://www.tradingview.com/chart/?symbol=SPTS) | SPDR Portfolio Short Term Treasury ETF | SPTS |
+| 7 | 98 | $17.50 | [Chart](https://www.tradingview.com/chart/?symbol=NOMD) | Nomad Foods Limited | NOMD |
+| 12 | 97 | $85.79 | [Chart](https://www.tradingview.com/chart/?symbol=TLT) | iShares 20+ Year Treasury Bond ETF | TLT |
+| 9 | 96 | $25.19 | [Chart](https://www.tradingview.com/chart/?symbol=DRV) | Direxion Daily Real Estate Bear 3X Shares | DRV |
+| 10 | 96 | $24.96 | [Chart](https://www.tradingview.com/chart/?symbol=TBBB) | BBB Foods Inc. | TBBB |
+| 13 | 96 | $338.52 | [Chart](https://www.tradingview.com/chart/?symbol=EG) | Everest Group, Ltd. | EG |
+| 9 | 95 | $12.60 | [Chart](https://www.tradingview.com/chart/?symbol=PMT) | PennyMac Mortgage Investment Trust | PMT |
+| 10 | 95 | $48.49 | [Chart](https://www.tradingview.com/chart/?symbol=SNY) | Sanofi American Depositary Shares (Each representing one-half of one ordinary share) | SNY |
+| 12 | 95 | $103.28 | [Chart](https://www.tradingview.com/chart/?symbol=DEO) | Diageo plc | DEO |
+| 19 | 95 | $32.31 | [Chart](https://www.tradingview.com/chart/?symbol=INVH) | Invitation Homes Inc. Common Stock | INVH |
+| 12 | 94 | $30.58 | [Chart](https://www.tradingview.com/chart/?symbol=AXTA) | Axalta Coating Systems Ltd. | AXTA |
+| 14 | 94 | $21.64 | [Chart](https://www.tradingview.com/chart/?symbol=TUA) | Simplify Short Term Treasury Futures Strategy ETF | TUA |
+| 15 | 94 | $34.52 | [Chart](https://www.tradingview.com/chart/?symbol=PECO) | Phillips Edison & Company, Inc. Common Stock | PECO |
+| 17 | 94 | $86.55 | [Chart](https://www.tradingview.com/chart/?symbol=SIGI) | Selective Insurance Group | SIGI |
+| 15 | 92 | $106.35 | [Chart](https://www.tradingview.com/chart/?symbol=BAH) | Booz Allen Hamilton Holding Corporation | BAH |
+| 15 | 92 | $40.40 | [Chart](https://www.tradingview.com/chart/?symbol=UDR) | UDR, Inc. | UDR |
+| 10 | 91 | $19.86 | [Chart](https://www.tradingview.com/chart/?symbol=CON) | Concentra Group Holdings Parent, Inc. | CON |
+| 17 | 91 | $56.08 | [Chart](https://www.tradingview.com/chart/?symbol=DAY) | Dayforce, Inc. | DAY |
+| 16 | 90 | $89.60 | [Chart](https://www.tradingview.com/chart/?symbol=CL) | Colgate-Palmolive Company | CL |
+| 17 | 90 | $66.64 | [Chart](https://www.tradingview.com/chart/?symbol=EQR) | Equity Residential | EQR |
+| 21 | 90 | $16.80 | [Chart](https://www.tradingview.com/chart/?symbol=MLN) | VanEck Long Muni ETF | MLN |
 | 17 | 88 | $82.44 | [Chart](https://www.tradingview.com/chart/?symbol=SHY) | iShares 1-3 Year Treasury Bond ETF | SHY |
-| 21 | 87 | $56.49 | [Chart](https://www.tradingview.com/chart/?symbol=DAY) | Dayforce, Inc. | DAY |
-| 26 | 87 | $60.73 | [Chart](https://www.tradingview.com/chart/?symbol=UL) | Unilever plc | UL |
-| 15 | 86 | $26.56 | [Chart](https://www.tradingview.com/chart/?symbol=FCPT) | Four Corners Property Trust, Inc. | FCPT |
-| 25 | 85 | $14.02 | [Chart](https://www.tradingview.com/chart/?symbol=DOLE) | Dole plc | DOLE |
-| 18 | 83 | $110.20 | [Chart](https://www.tradingview.com/chart/?symbol=SHV) | iShares Short Treasury Bond ETF | SHV |
-| 28 | 83 | $22.06 | [Chart](https://www.tradingview.com/chart/?symbol=SGRY) | Surgery Partners, Inc. Common Stock | SGRY |
-| 30 | 83 | $103.56 | [Chart](https://www.tradingview.com/chart/?symbol=CROX) | Crocs, Inc. | CROX |
-| 29 | 82 | $53.57 | [Chart](https://www.tradingview.com/chart/?symbol=CNMD) | CONMED Corporation | CNMD |
-| 22 | 81 | $39.25 | [Chart](https://www.tradingview.com/chart/?symbol=LZB) | La-Z-Boy Incorporated | LZB |
-| 30 | 81 | $86.41 | [Chart](https://www.tradingview.com/chart/?symbol=SIGI) | Selective Insurance Group | SIGI |
-| 31 | 81 | $16.03 | [Chart](https://www.tradingview.com/chart/?symbol=BNL) | Broadstone Net Lease, Inc. | BNL |
-| 24 | 80 | $113.58 | [Chart](https://www.tradingview.com/chart/?symbol=CPT) | Camden Property Trust | CPT |
-| 24 | 80 | $35.66 | [Chart](https://www.tradingview.com/chart/?symbol=AMH) | AMERICAN HOMES 4 RENT | AMH |
-| 24 | 80 | $110.84 | [Chart](https://www.tradingview.com/chart/?symbol=FTAI) | FTAI Aviation Ltd. Common Stock | FTAI |
-| 25 | 80 | $156.38 | [Chart](https://www.tradingview.com/chart/?symbol=NICE) | NICE Ltd | NICE |
-| 28 | 80 | $34.55 | [Chart](https://www.tradingview.com/chart/?symbol=PECO) | Phillips Edison & Company, Inc. Common Stock | PECO |
-| 28 | 80 | $25.34 | [Chart](https://www.tradingview.com/chart/?symbol=PNTG) | The Pennant Group, Inc. Common Stock | PNTG |
-| 30 | 79 | $75.76 | [Chart](https://www.tradingview.com/chart/?symbol=IFF) | International Flavors & Fragrances Inc. | IFF |
-| 27 | 77 | $77.11 | [Chart](https://www.tradingview.com/chart/?symbol=AWR) | American States Water Company | AWR |
-| 28 | 77 | $100.72 | [Chart](https://www.tradingview.com/chart/?symbol=FMX) | FOMENTO ECONOMICO MEXICANO, S.A.B. DE C.V. | FMX |
-| 28 | 77 | $347.12 | [Chart](https://www.tradingview.com/chart/?symbol=SHW) | The Sherwin-Williams Company | SHW |
-| 33 | 77 | $11.90 | [Chart](https://www.tradingview.com/chart/?symbol=SHC) | Sotera Health Company Common Stock | SHC |
-| 26 | 76 | $36.90 | [Chart](https://www.tradingview.com/chart/?symbol=PBA) | PEMBINA PIPELINE CORPORATION | PBA |
-| 33 | 75 | $25.52 | [Chart](https://www.tradingview.com/chart/?symbol=HPQ) | HP Inc. | HPQ |
-| 35 | 74 | $29.86 | [Chart](https://www.tradingview.com/chart/?symbol=APPN) | Appian Corporation Class A Common Stock | APPN |
-| 34 | 73 | $23.08 | [Chart](https://www.tradingview.com/chart/?symbol=RTO) | Rentokil Initial plc American Depositary Shares (each representing five (5) Ordinary Shares) | RTO |
-| 35 | 73 | $192.91 | [Chart](https://www.tradingview.com/chart/?symbol=RGA) | Reinsurance Group of America, Incorporated | RGA |
-| 31 | 72 | $57.16 | [Chart](https://www.tradingview.com/chart/?symbol=PRCT) | PROCEPT BioRobotics Corporation Common Stock | PRCT |
+| 23 | 88 | $466.85 | [Chart](https://www.tradingview.com/chart/?symbol=LMT) | Lockheed Martin Corp. | LMT |
+| 26 | 87 | $60.77 | [Chart](https://www.tradingview.com/chart/?symbol=UL) | Unilever plc | UL |
+| 17 | 86 | $237.76 | [Chart](https://www.tradingview.com/chart/?symbol=RNR) | RenaissanceRe Holdings Ltd. | RNR |
+| 16 | 84 | $26.61 | [Chart](https://www.tradingview.com/chart/?symbol=FCPT) | Four Corners Property Trust, Inc. | FCPT |
+| 26 | 84 | $14.05 | [Chart](https://www.tradingview.com/chart/?symbol=DOLE) | Dole plc | DOLE |
+| 29 | 82 | $22.11 | [Chart](https://www.tradingview.com/chart/?symbol=SGRY) | Surgery Partners, Inc. Common Stock | SGRY |
+| 31 | 82 | $103.63 | [Chart](https://www.tradingview.com/chart/?symbol=CROX) | Crocs, Inc. | CROX |
+| 22 | 81 | $39.23 | [Chart](https://www.tradingview.com/chart/?symbol=LZB) | La-Z-Boy Incorporated | LZB |
+| 23 | 80 | $75.81 | [Chart](https://www.tradingview.com/chart/?symbol=AWR) | American States Water Company | AWR |
+| 32 | 80 | $16.04 | [Chart](https://www.tradingview.com/chart/?symbol=BNL) | Broadstone Net Lease, Inc. | BNL |
+| 25 | 79 | $113.68 | [Chart](https://www.tradingview.com/chart/?symbol=CPT) | Camden Property Trust | CPT |
+| 25 | 79 | $35.71 | [Chart](https://www.tradingview.com/chart/?symbol=AMH) | AMERICAN HOMES 4 RENT | AMH |
+| 25 | 79 | $110.81 | [Chart](https://www.tradingview.com/chart/?symbol=FTAI) | FTAI Aviation Ltd. Common Stock | FTAI |
+| 25 | 79 | $155.90 | [Chart](https://www.tradingview.com/chart/?symbol=NICE) | NICE Ltd | NICE |
+| 29 | 79 | $25.37 | [Chart](https://www.tradingview.com/chart/?symbol=PNTG) | The Pennant Group, Inc. Common Stock | PNTG |
+| 29 | 79 | $119.97 | [Chart](https://www.tradingview.com/chart/?symbol=ITGR) | Integer Holdings Corporation | ITGR |
+| 32 | 78 | $11.83 | [Chart](https://www.tradingview.com/chart/?symbol=SHC) | Sotera Health Company Common Stock | SHC |
+| 27 | 77 | $19.23 | [Chart](https://www.tradingview.com/chart/?symbol=MSDL) | Morgan Stanley Direct Lending Fund | MSDL |
+| 31 | 77 | $75.93 | [Chart](https://www.tradingview.com/chart/?symbol=IFF) | International Flavors & Fragrances Inc. | IFF |
+| 28 | 76 | $346.46 | [Chart](https://www.tradingview.com/chart/?symbol=SHW) | The Sherwin-Williams Company | SHW |
+| 27 | 75 | $36.99 | [Chart](https://www.tradingview.com/chart/?symbol=PBA) | PEMBINA PIPELINE CORPORATION | PBA |
+| 33 | 75 | $25.48 | [Chart](https://www.tradingview.com/chart/?symbol=HPQ) | HP Inc. | HPQ |
+| 30 | 74 | $101.43 | [Chart](https://www.tradingview.com/chart/?symbol=FMX) | FOMENTO ECONOMICO MEXICANO, S.A.B. DE C.V. | FMX |
+| 35 | 73 | $29.66 | [Chart](https://www.tradingview.com/chart/?symbol=APPN) | Appian Corporation Class A Common Stock | APPN |
+| 35 | 72 | $23.05 | [Chart](https://www.tradingview.com/chart/?symbol=RTO) | Rentokil Initial plc American Depositary Shares (each representing five (5) Ordinary Shares) | RTO |
+| 36 | 72 | $193.84 | [Chart](https://www.tradingview.com/chart/?symbol=RGA) | Reinsurance Group of America, Incorporated | RGA |
+| 32 | 69 | $55.43 | [Chart](https://www.tradingview.com/chart/?symbol=ALRM) | Alarm.com Holdings, Inc. | ALRM |
+| 33 | 69 | $57.23 | [Chart](https://www.tradingview.com/chart/?symbol=PRCT) | PROCEPT BioRobotics Corporation Common Stock | PRCT |
 | 38 | 69 | $559.90 | [Chart](https://www.tradingview.com/chart/?symbol=TYL) | Tyler Technologies, Inc. | TYL |
-| 33 | 68 | $238.44 | [Chart](https://www.tradingview.com/chart/?symbol=RNR) | RenaissanceRe Holdings Ltd. | RNR |
-| 34 | 68 | $41.49 | [Chart](https://www.tradingview.com/chart/?symbol=XLRE) | Real Estate Select Sector SPDR Fund | XLRE |
-| 39 | 64 | $19.19 | [Chart](https://www.tradingview.com/chart/?symbol=MSDL) | Morgan Stanley Direct Lending Fund | MSDL |
+| 35 | 67 | $41.55 | [Chart](https://www.tradingview.com/chart/?symbol=XLRE) | Real Estate Select Sector SPDR Fund | XLRE |
 
 ## **Methodology**
 
